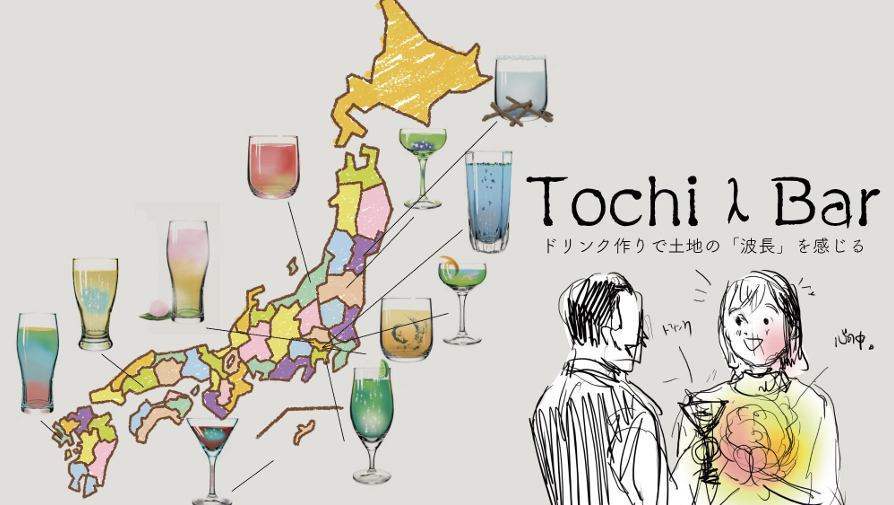
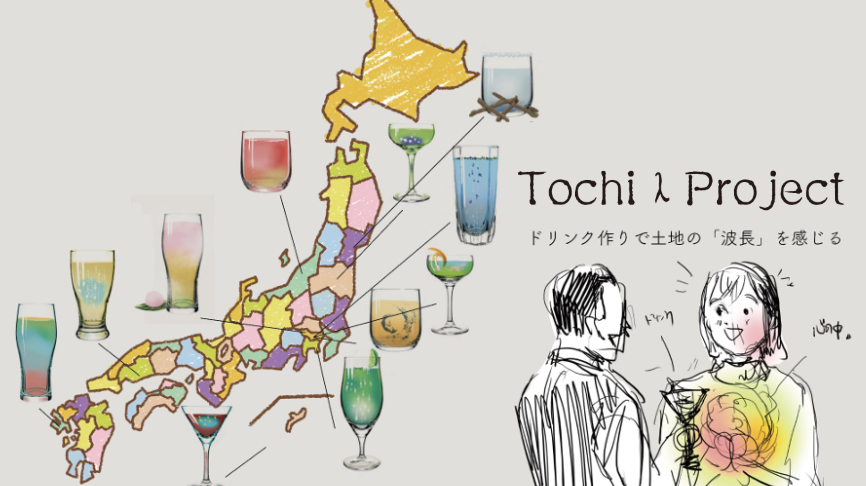
edit images

diff --git a/index.html b/index.html
@@ -3,7 +3,7 @@
 <head>
   <meta charset="UTF-8" />
   <meta name="viewport" content="width=device-width, initial-scale=1.0" />
-  <title>Tochiλcafe - 土地の波長を味わう場所</title>
+  <title>TochiλProject</title>
   <link rel="stylesheet" href="style.css" />
 </head>
 <body>
@@ -27,7 +27,7 @@
   
     <p>
         “波長の合う場所”を見つける、自分らしさを味わう。<br />
-        TochiλCafeでは、土地の記憶や人の想いをヒントに、あなただけの一杯をお届けします。<br />
+        TochiλProjectでは、土地の記憶や人の想いをヒントに、あなただけの一杯をお届けします。<br />
         対話を通じて、自分と土地にそっと耳をすますような、そんな時間をどうぞ。
     </p>      
   </section>
@@ -78,7 +78,7 @@
     <h2>News</h2>
     <div class="news-container">
       <div class="news-card">
-        <img src="images/experience.png" alt="イベント開催レポート" />
+        <img src="images/recipe.png" alt="TochiλRecipe サービス始動" />
         <h3>2025.05.03<br>TochiλRecipe サービス始動</h3>
         <a href="news/news20250429.html" target="_blank">詳しく読む</a>
       </div>

diff --git a/news/news20250429.html b/news/news20250429.html
@@ -11,7 +11,7 @@
     <h1>Tochi λ Recipe サービス、ついに始動！</h1>
     <p class="news-meta">2025年5月3日 | だれでも簡単にオリジナルドリンクが作れます！</p>
 
-    <img src="../images/experience.png" alt="イベントの様子" />
+    <img src="../images/recipe.png" alt="イベントの様子" />
 
     <p>
       あなたの「心地よさ」や「今の気持ち」を、オリジナルドリンクというかたちでお届けする新サービス 「Tochi λ Recipe」 がスタートしました。<br>
